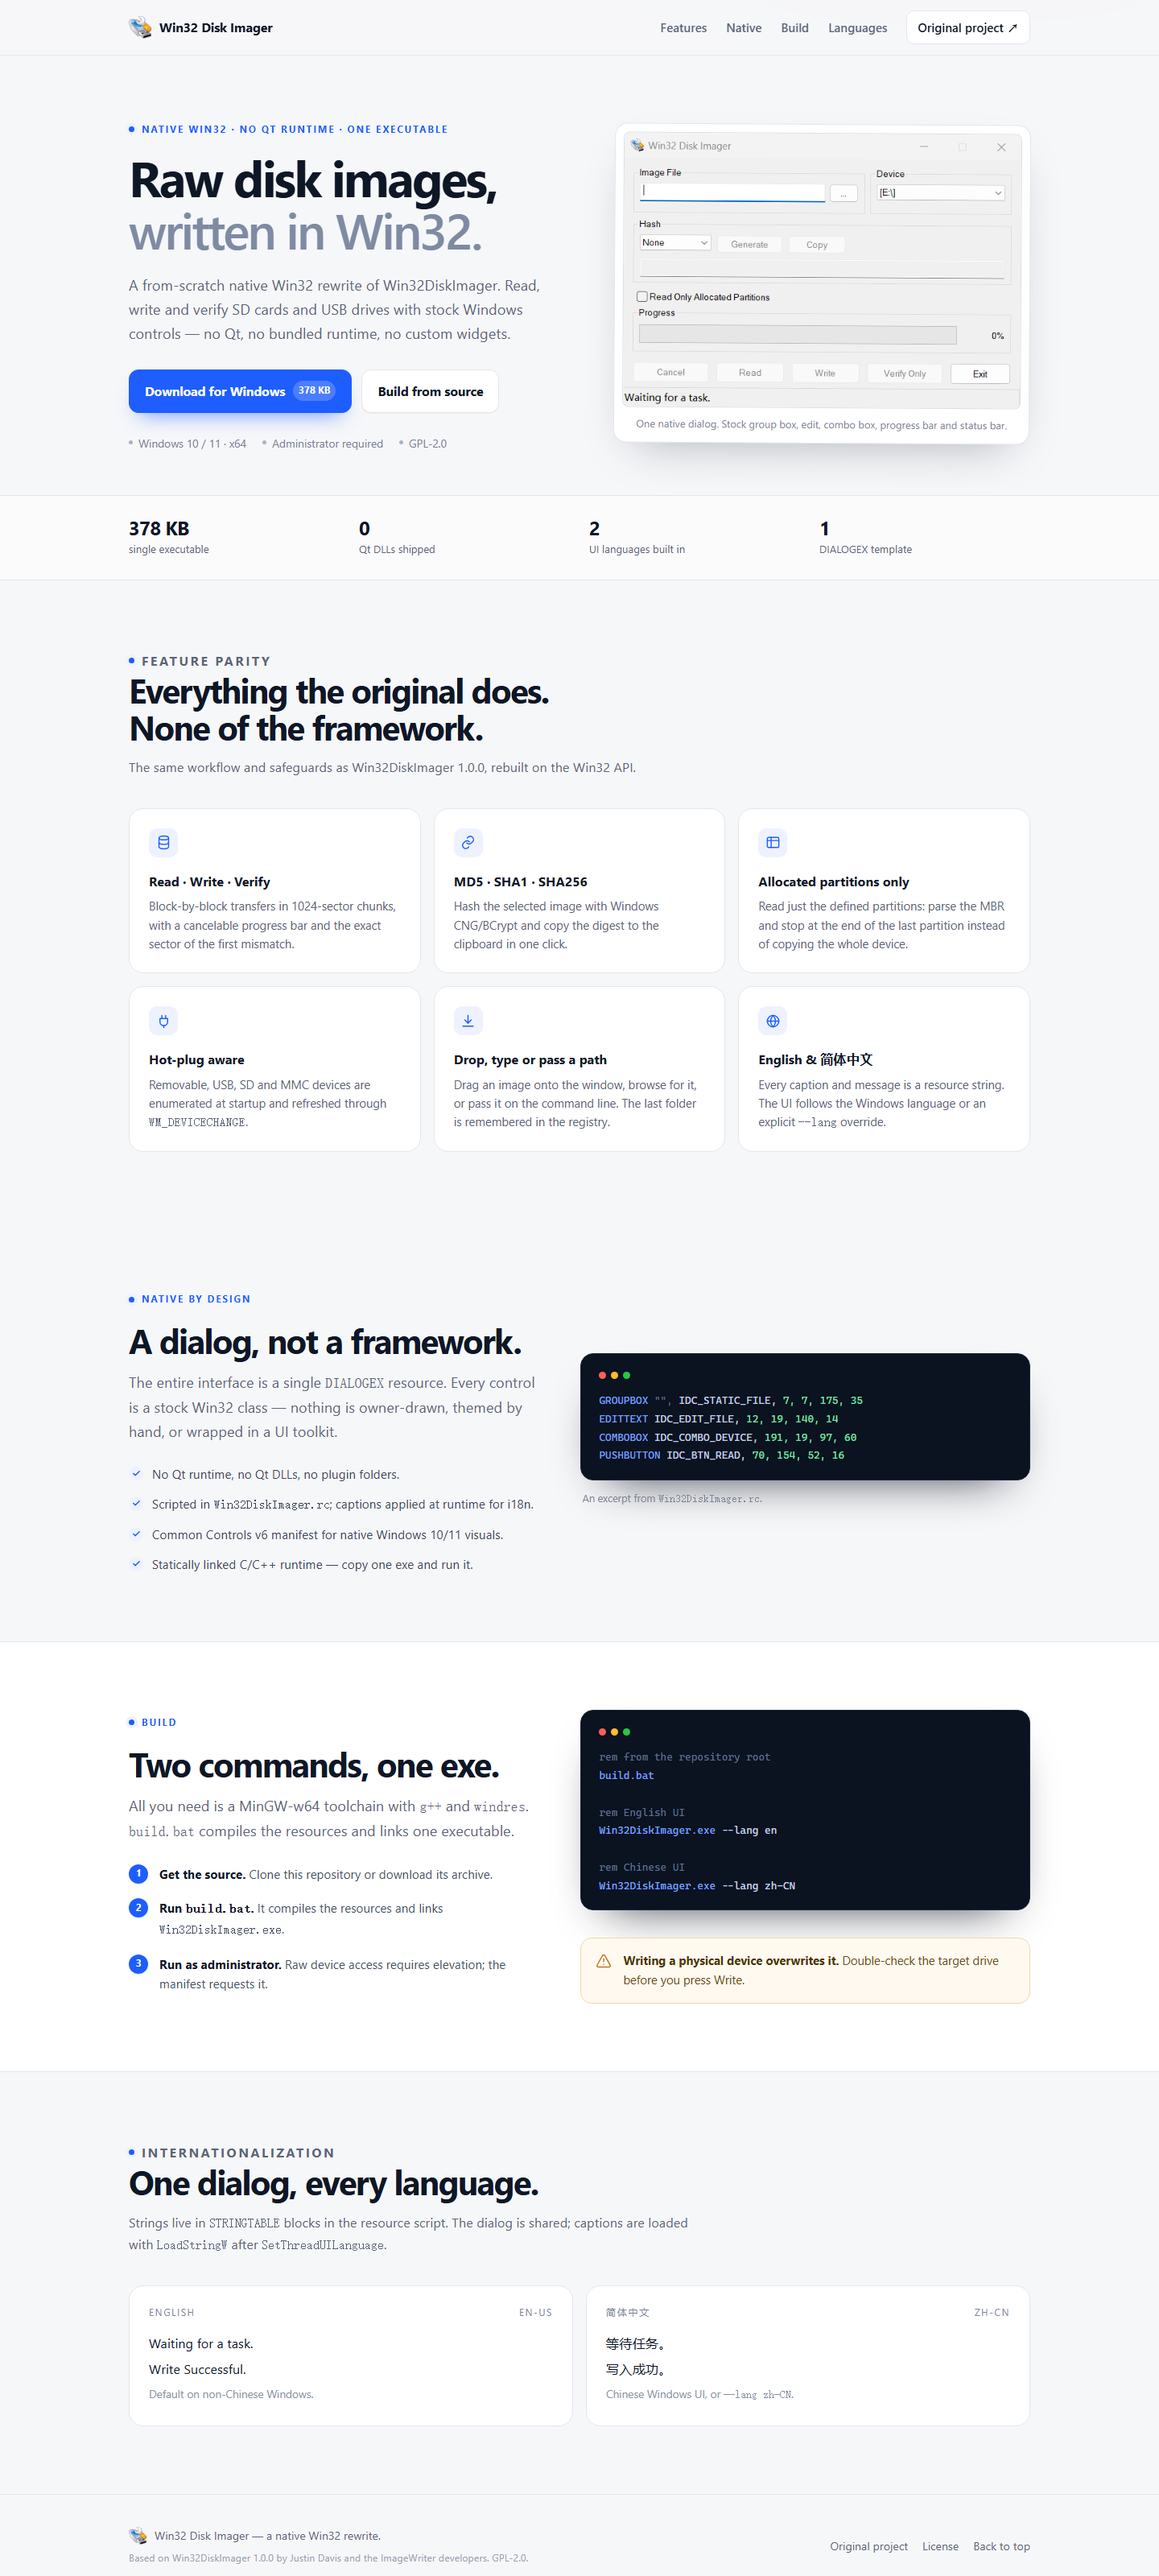
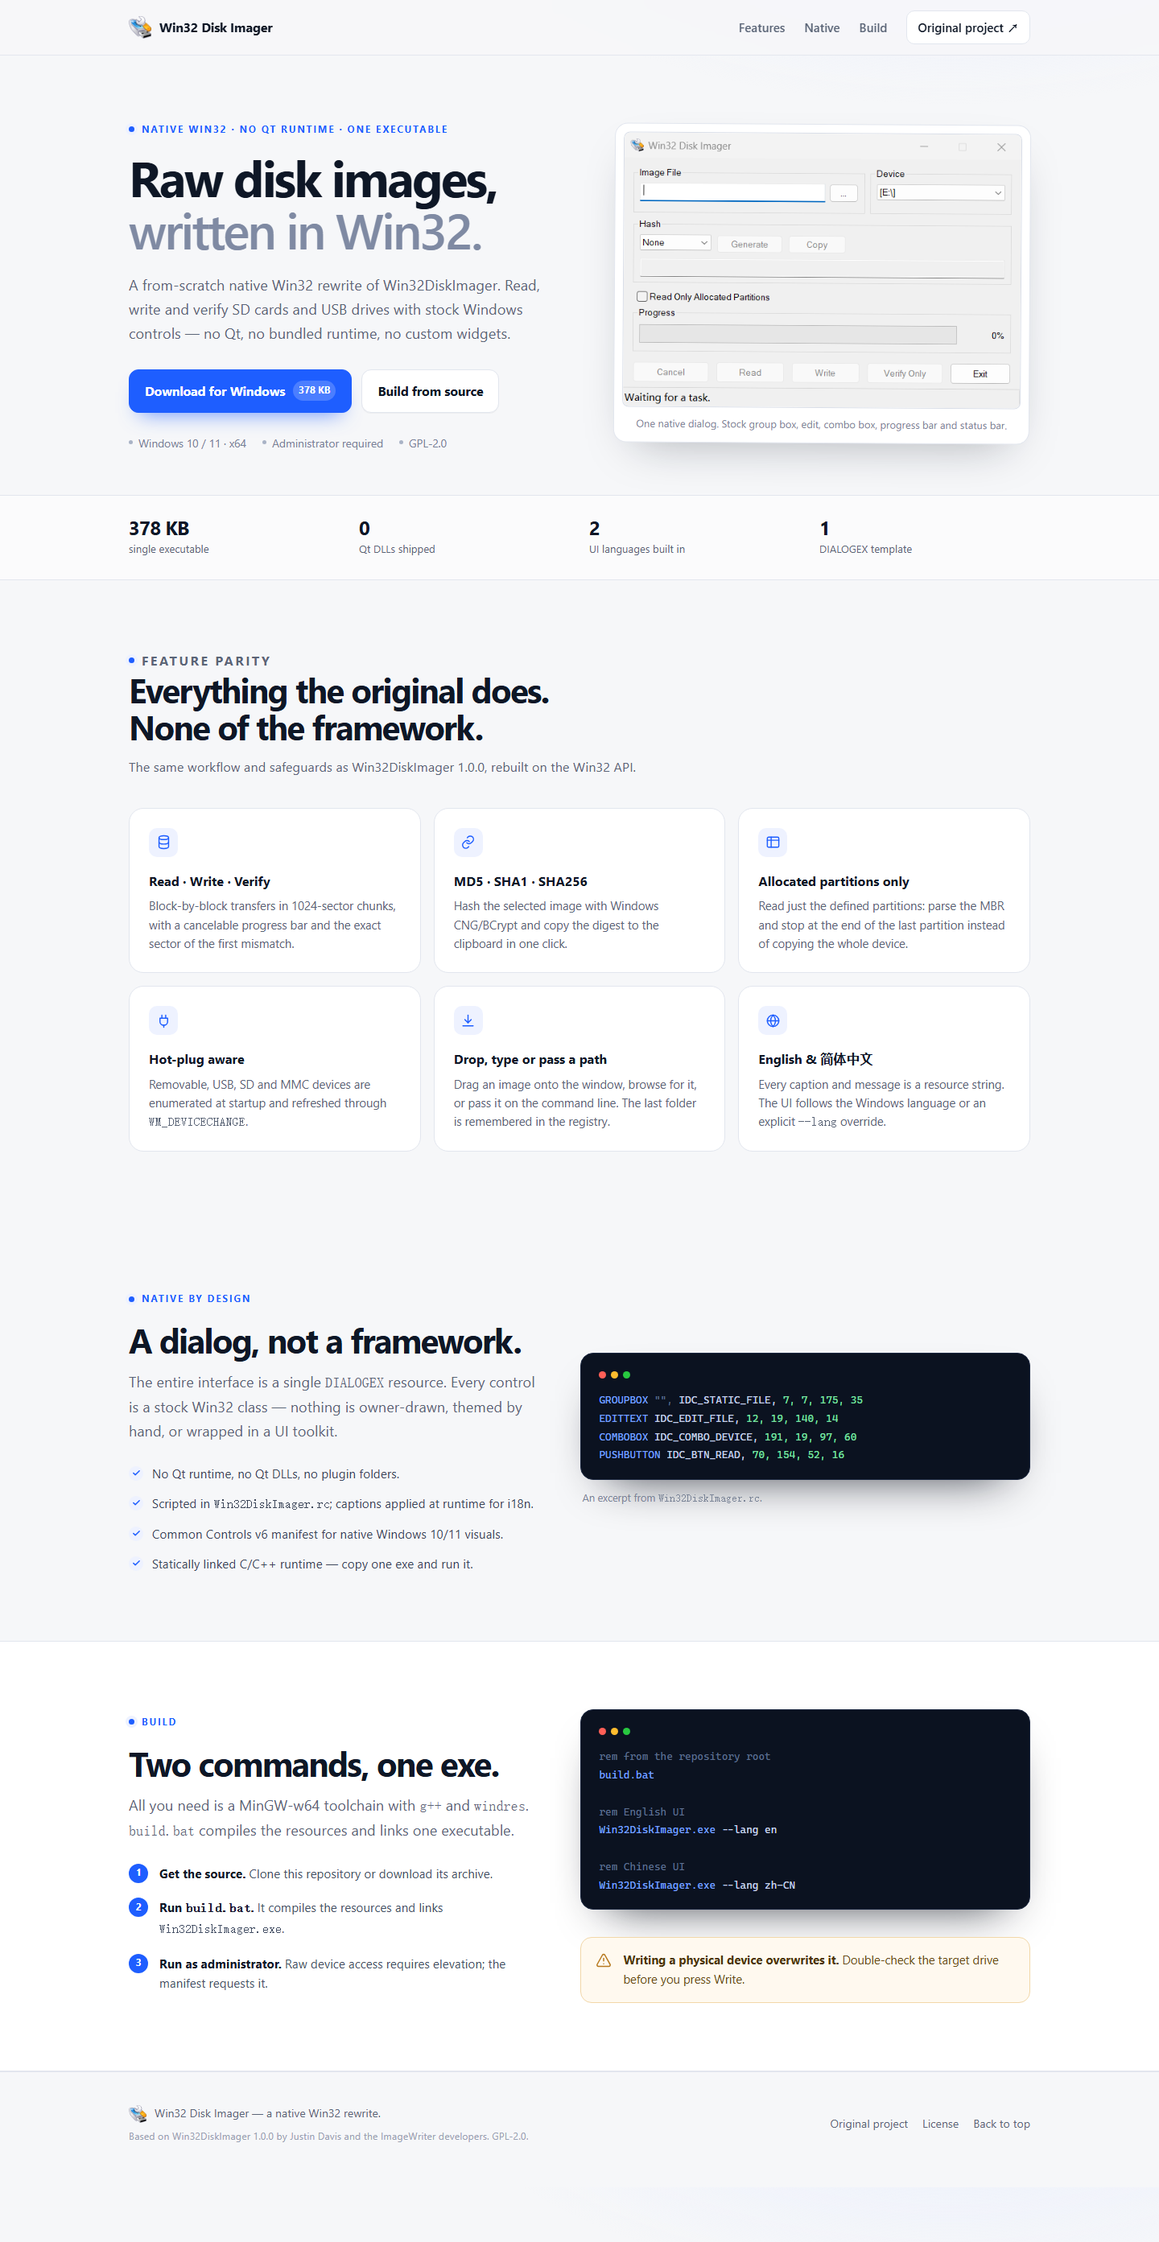
docs: add comparison table, simplify landing page
Compare the original Qt 1.0.0 distribution and source size with the Win32 rewrite, and remove the redundant languages section from the landing page.

diff --git a/docs/index.html b/docs/index.html
@@ -35,7 +35,7 @@
   a{color:var(--accent);text-decoration:none}
   a:hover{text-decoration:underline}
   a:focus-visible,.btn:focus-visible{outline:3px solid rgba(30,94,255,.35);outline-offset:3px;border-radius:12px}
-  #features,#native,#build,#languages{scroll-margin-top:84px}
+  #features,#native,#build{scroll-margin-top:84px}
   img{max-width:100%}
   .wrap{width:min(1120px, calc(100% - 48px));margin:0 auto}
 
@@ -145,13 +145,6 @@
   }
   .steps b{color:var(--ink)}
 
-  /* languages */
-  .langs{display:grid;grid-template-columns:1fr 1fr;gap:16px}
-  .lang{background:#fff;border:1px solid var(--line);border-radius:var(--radius);padding:22px 24px}
-  .lang header{display:flex;justify-content:space-between;align-items:center;color:#7b8598;font-size:.78rem;letter-spacing:.1em;text-transform:uppercase;margin-bottom:14px}
-  .lang p{margin:6px 0;font-size:1.02rem}
-  .lang .dim{color:#8a94a8;font-size:.85rem}
-
   /* callout */
   .callout{
     margin-top:34px;display:flex;gap:14px;align-items:flex-start;
@@ -185,7 +178,7 @@
   @media (max-width:720px){
     .links a:not(.github){display:none}
     .stats .wrap{grid-template-columns:1fr 1fr}
-    .grid,.langs{grid-template-columns:1fr}
+    .grid{grid-template-columns:1fr}
     section{padding:62px 0}
     .wrap{width:min(1120px, calc(100% - 32px))}
     h1{letter-spacing:-.035em}
@@ -201,7 +194,6 @@
       <a href="#features">Features</a>
       <a href="#native">Native</a>
       <a href="#build">Build</a>
-      <a href="#languages">Languages</a>
       <a class="github" href="https://sourceforge.net/projects/win32diskimager/" target="_blank" rel="noopener">Original project ↗</a>
     </nav>
   </div>
@@ -336,28 +328,6 @@
           <svg viewBox="0 0 24 24"><path d="M12 9v4M12 17h.01"/><path d="M10.3 3.9 2.4 18a2 2 0 0 0 1.7 3h15.8a2 2 0 0 0 1.7-3L13.7 3.9a2 2 0 0 0-3.4 0Z"/></svg>
           <div><strong>Writing a physical device overwrites it.</strong> Double-check the target drive before you press Write.</div>
         </div>
-      </div>
-    </div>
-  </section>
-
-  <section id="languages" class="wrap">
-    <div class="section-head">
-      <p class="eyebrow">Internationalization</p>
-      <h2>One dialog, every language.</h2>
-      <p>Strings live in <code>STRINGTABLE</code> blocks in the resource script. The dialog is shared; captions are loaded with <code>LoadStringW</code> after <code>SetThreadUILanguage</code>.</p>
-    </div>
-    <div class="langs">
-      <div class="lang">
-        <header><span>English</span><span>en-US</span></header>
-        <p>Waiting for a task.</p>
-        <p>Write Successful.</p>
-        <p class="dim">Default on non-Chinese Windows.</p>
-      </div>
-      <div class="lang">
-        <header><span>简体中文</span><span>zh-CN</span></header>
-        <p>等待任务。</p>
-        <p>写入成功。</p>
-        <p class="dim">Chinese Windows UI, or <code>--lang zh-CN</code>.</p>
       </div>
     </div>
   </section>

diff --git a/README.md b/README.md
@@ -41,6 +41,23 @@ Copyright (C) 2009 Justin Davis and the ImageWriter developers.
 * Localized UI and messages (English and Simplified Chinese) selected from the
   Windows UI language, overridable with `--lang`.
 
+## Comparison with the original
+
+| Dimension | Original 1.0.0 (Qt) | This rewrite |
+| --- | --- | --- |
+| Distribution | 12.6 MB installer | **378 KB** single `Win32DiskImager.exe` |
+| Runtime dependencies | Qt 5 Core/GUI/Widgets DLLs, `qwindows.dll` platform plugin, MinGW runtime, `translations/` folder | Windows 10/11 system DLLs only |
+| Application source | 106.9 KB, ≈2,815 lines (C++, `.ui`, `.rc`, `.pro`) | 58.9 KB, 1,602 lines (`main.cpp`, `.rc`, headers, manifest, build script) |
+| UI definition | 418-line `mainwindow.ui` plus Qt-generated code | one shared `DIALOGEX` in a 229-line `.rc` |
+| Custom widget classes | 2 (`DroppableLineEdit`, `ElapsedTimer`) | 0 — stock Win32 controls |
+| Translations | 10 `.ts` files (9 translated locales + English) compiled to `.qm` | 2 languages embedded as `STRINGTABLE` resources (`en`, `zh-CN`) |
+| Build requirements | Qt 5.7 SDK + MinGW 5.3 | MinGW-w64 (`g++`, `windres`) |
+| Native look | Qt Widgets style | Windows Common Controls v6 |
+
+Original figures are measured from the upstream 1.0.0 source archive and
+official installer; rewrite figures are from the current build. Sizes use
+decimal units (1 KB = 1000 bytes).
+
 ## Layout
 
 ```
